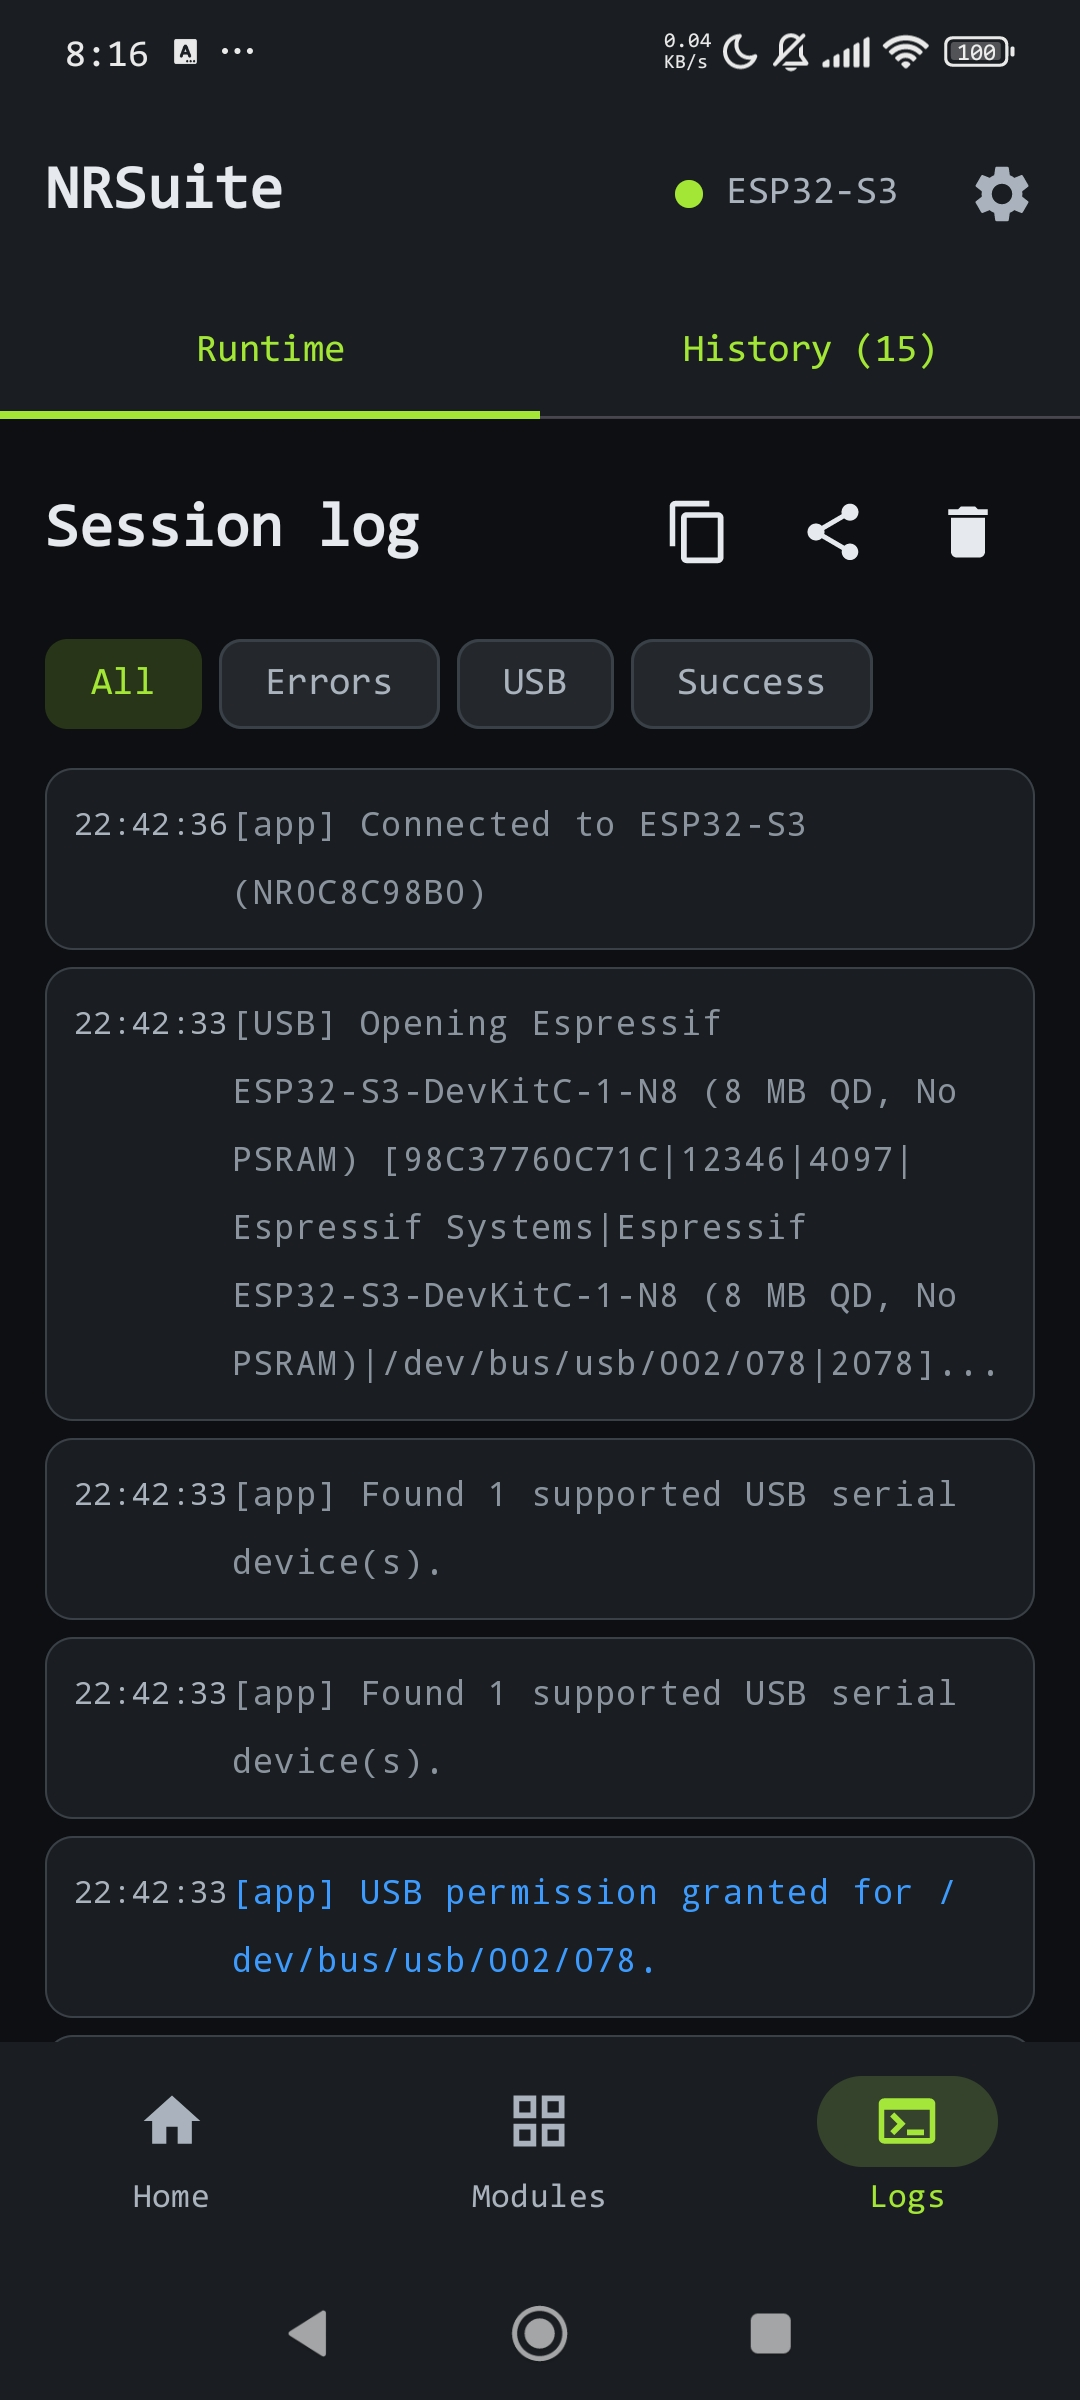
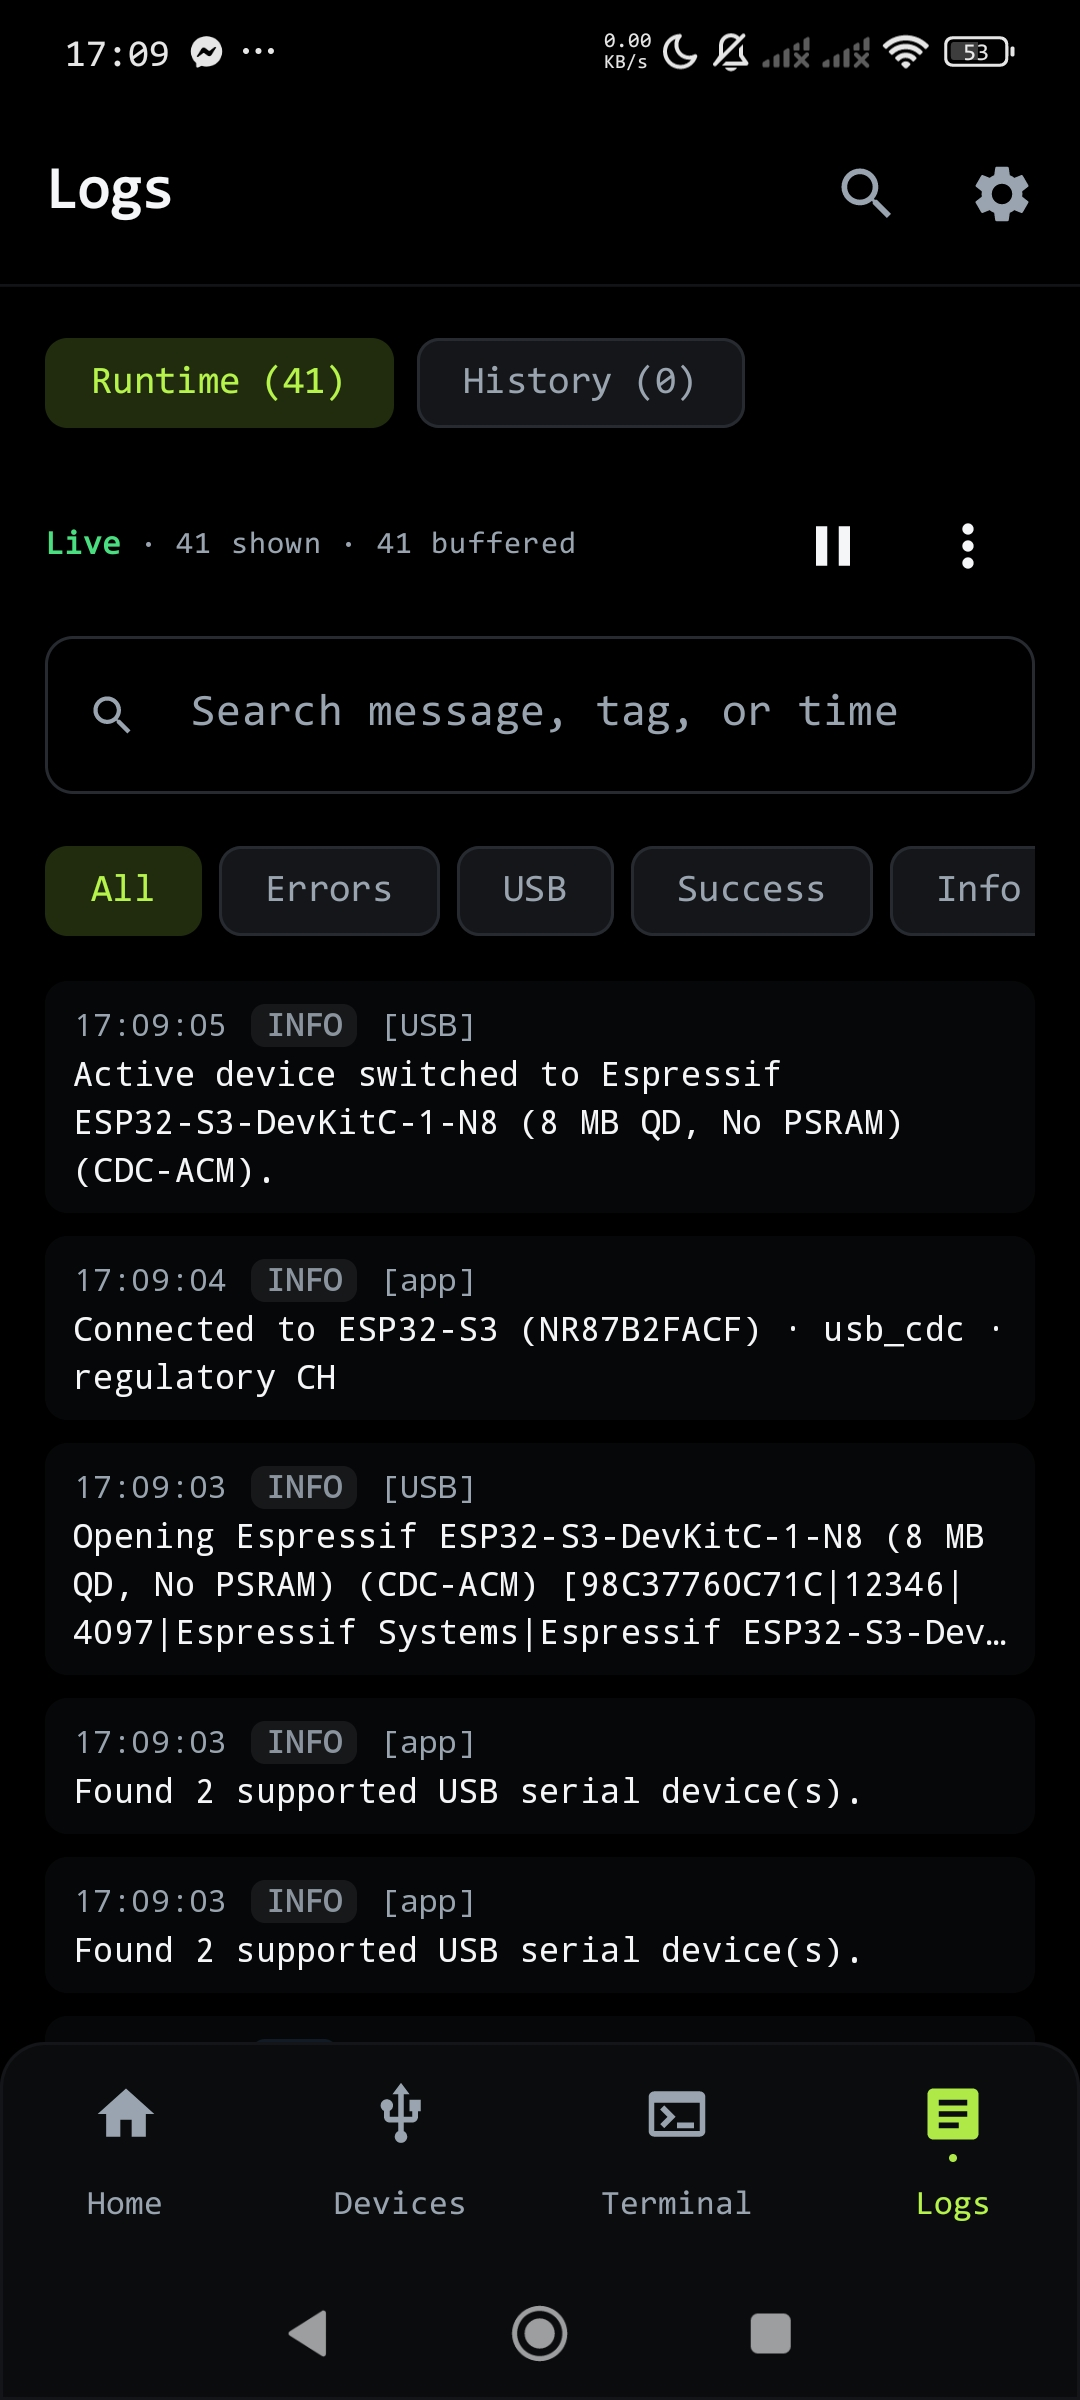
docs: refresh 3.2.0 screenshots and fix license detection

diff --git a/README.md b/README.md
@@ -63,6 +63,18 @@ Use `#support` for help, `#showcase` for builds, and `#github` for repo/code dis
 
 Categories below match the app's actual module grid and navigation.
 
+### Interface and themes
+
+NRSuite uses a refreshed, high-contrast field-instrument UI across Home, Devices,
+Terminal, Logs, the module catalog, settings, dialogs, cards, filters, and
+shared controls.
+
+Three switchable themes are available in **Settings → Appearance**:
+
+- **Obsidian** — near-black layered surfaces with a lime accent.
+- **Black** — true-black AMOLED surfaces for darker environments.
+- **Daylight** — high-contrast light surfaces for bright environments.
+
 ### Board Capability Matrix
 
 Not every ESP32 variant supports every capability. Check your board before relying on a feature:
@@ -509,17 +521,29 @@ NRSuite uses a custom framing protocol (`FrameCodec` / `NrJson`) over USB serial
 |---|---|---|
 | ![Home](screenshots/home.jpg) | ![Devices](screenshots/device-manager.jpg) | ![Logs](screenshots/logs-screen.jpg) |
 
-| Module Catalog | WiFi Scan | Packet Sniffer |
+| Terminal | Terminal Shortcuts | Terminal Settings |
 |---|---|---|
-| ![Module Catalog](screenshots/module-catalog.jpg) | ![WiFi Scan](screenshots/wifi-scan.jpg) | ![Packet Sniffer](screenshots/packet-sniffer.jpg) |
+| ![Terminal](screenshots/terminal.jpg) | ![Terminal shortcuts](screenshots/terminal-shortcuts.jpg) | ![Terminal settings](screenshots/terminal-settings.jpg) |
 
-| Deauth Detector | Rogue AP Detector | BLE Scanner |
+| WiFi Recon | WiFi Attack | WiFi Defense |
 |---|---|---|
-| ![Deauth Detector](screenshots/deauth-detector.jpg) | ![Rogue AP Detector](screenshots/rogue-ap.jpg) | ![BLE Scanner](screenshots/ble-scanner.jpg) |
+| ![WiFi recon](screenshots/wifi-recon.jpg) | ![WiFi attack](screenshots/wifi-attack.jpg) | ![WiFi defense](screenshots/wifi-defense.jpg) |
 
-| BadUSB | Credential Manager | Firmware Flasher |
+| BLE | Sensors | Tools |
 |---|---|---|
-| ![BadUSB](screenshots/badusb.jpg) | ![Credential Manager](screenshots/credential-manager.jpg) | ![Firmware Flasher](screenshots/firmware-flasher.jpg) |
+| ![BLE modules](screenshots/ble-category.jpg) | ![Sensors](screenshots/sensors-category.jpg) | ![Tools](screenshots/tools-category.jpg) |
+
+| Credentials | HID | IR |
+|---|---|---|
+| ![Credentials](screenshots/credentials-category.jpg) | ![HID](screenshots/hid-category.jpg) | ![IR](screenshots/ir-category.jpg) |
+
+| Firmware | Storage | Settings |
+|---|---|---|
+| ![Firmware modules](screenshots/firmware-category.jpg) | ![Storage](screenshots/storage.jpg) | ![Settings](screenshots/settings.jpg) |
+
+| Themes | Firmware Flasher | Multi-device |
+|---|---|---|
+| ![Themes](screenshots/settings-appearance.jpg) | ![Firmware flasher](screenshots/firmware-flasher.jpg) | ![Multi-device](screenshots/home-multi-device.jpg) |
 
 More screenshots in [./screenshots/](./screenshots/).
 
@@ -560,7 +584,7 @@ See [CONTRIBUTING.md](./CONTRIBUTING.md) for the full guide: branching model, PR
 
 | App version | Firmware version | Protocol spec |
 |---|---|---|
-| v1.0.0-beta.3.1.1 | v1.0.0-beta.3.1.1 | v1.0 (non-mesh); mesh protocol 1.1 is experimental |
+| v1.0.0-beta.3.2.0 | v1.0.0-beta.3.2.0 | v1.0 / proto_minor 2 (non-mesh); mesh protocol 1.1 is experimental |
 
 This table is updated with each release. Always check compatibility before mixing app and firmware versions.
 

diff --git a/screenshots/README.md b/screenshots/README.md
@@ -2,53 +2,53 @@
 
 Full screenshot gallery for the NRSuite Android app. For the main project page, see [../README.md](../README.md).
 
+Screenshots are from NRSuite `1.0.0-beta.3.2.0`.
+
 ## Core
 
-| Home | Modules | Logs |
+| Home | Devices | Logs |
 |---|---|---|
-| ![Home](home.jpg) | ![Modules](module-catalog.jpg) | ![Logs](logs-screen.jpg) |
+| ![Home](home.jpg) | ![Devices](device-manager.jpg) | ![Logs](logs-screen.jpg) |
 
-| Device Manager | WiFi Scan | Packet Sniffer |
+| Multi-device Home | Device Update | Settings |
 |---|---|---|
-| ![Device Manager](device-manager.jpg) | ![WiFi Scan](wifi-scan.jpg) | ![Packet Sniffer](packet-sniffer.jpg) |
+| ![Multi-device home](home-multi-device.jpg) | ![Device update](device-manager-update.jpg) | ![Settings](settings.jpg) |
+
+## Terminal
+
+| Terminal | Terminal Shortcuts | Terminal Settings |
+|---|---|---|
+| ![Terminal](terminal.jpg) | ![Terminal shortcuts](terminal-shortcuts.jpg) | ![Terminal settings](terminal-settings.jpg) |
+
+| Shortcut Editor | Manage Shortcuts |
+|---|---|
+| ![Shortcut editor](terminal-shortcut-editor.jpg) | ![Manage shortcuts](terminal-shortcut-manager.jpg) |
 
 ## Wireless
 
-| Hidden AP Revealer | Beacon | Deauth |
+| WiFi Recon | WiFi Attack | WiFi Defense |
 |---|---|---|
-| ![Hidden AP Revealer](hidden-ap.jpg) | ![Beacon](beacon.jpg) | ![Deauth](deauth.jpg) |
+| ![WiFi recon](wifi-recon.jpg) | ![WiFi attack](wifi-attack.jpg) | ![WiFi defense](wifi-defense.jpg) |
 
-| Captive Portal | Evil Twin | Deauth Detector |
+## Module Categories
+
+| BLE | Sensors | Mesh |
 |---|---|---|
-| ![Captive Portal](captive-portal.jpg) | ![Evil Twin](evil-twin.jpg) | ![Deauth Detector](deauth-detector.jpg) |
+| ![BLE modules](ble-category.jpg) | ![Sensors](sensors-category.jpg) | ![Mesh](mesh-category.jpg) |
 
-| Rogue AP Detector | Client Detector | BLE Scanner |
+| Tools | Credentials | HID |
 |---|---|---|
-| ![Rogue AP Detector](rogue-ap.jpg) | ![Client Detector](client-detector.jpg) | ![BLE Scanner](ble-scanner.jpg) |
+| ![Tools](tools-category.jpg) | ![Credentials](credentials-category.jpg) | ![HID](hid-category.jpg) |
 
-## BLE
-
-| BLE GATT Profile | Tracker Detector | MAC Lookup |
+| Storage | Firmware | IR |
 |---|---|---|
-| ![BLE GATT Profile](ble-gatt.jpg) | ![Tracker Detector](tracker-detector.jpg) | ![MAC Lookup](mac-lookup.jpg) |
+| ![Storage](storage.jpg) | ![Firmware modules](firmware-category.jpg) | ![IR](ir-category.jpg) |
 
-## Tools and Credentials
+## Appearance and Flashing
 
-| Credential Manager | WPA Cracker | Ducky Editor |
-|---|---|---|
-| ![Credential Manager](credential-manager.jpg) | ![WPA Cracker](wpa-cracker.jpg) | ![Ducky Editor](ducky-editor.jpg) |
-
-## HID and Storage
-
-| BadUSB | BLE HID | Mass Storage |
-|---|---|---|
-| ![BadUSB](badusb.jpg) | ![BLE HID](ble-hid.jpg) | ![Mass Storage](storage.jpg) |
-
-## Firmware and Settings
-
-| Firmware Flasher | Serial Monitor | Settings |
-|---|---|---|
-| ![Firmware Flasher](firmware-flasher.jpg) | ![Serial Monitor](serial-monitor.jpg) | ![Settings](settings.jpg) |
+| Themes | Firmware Flasher |
+|---|---|
+| ![Themes](settings-appearance.jpg) | ![Firmware Flasher](firmware-flasher.jpg) |
 
 ## Hardware
 
